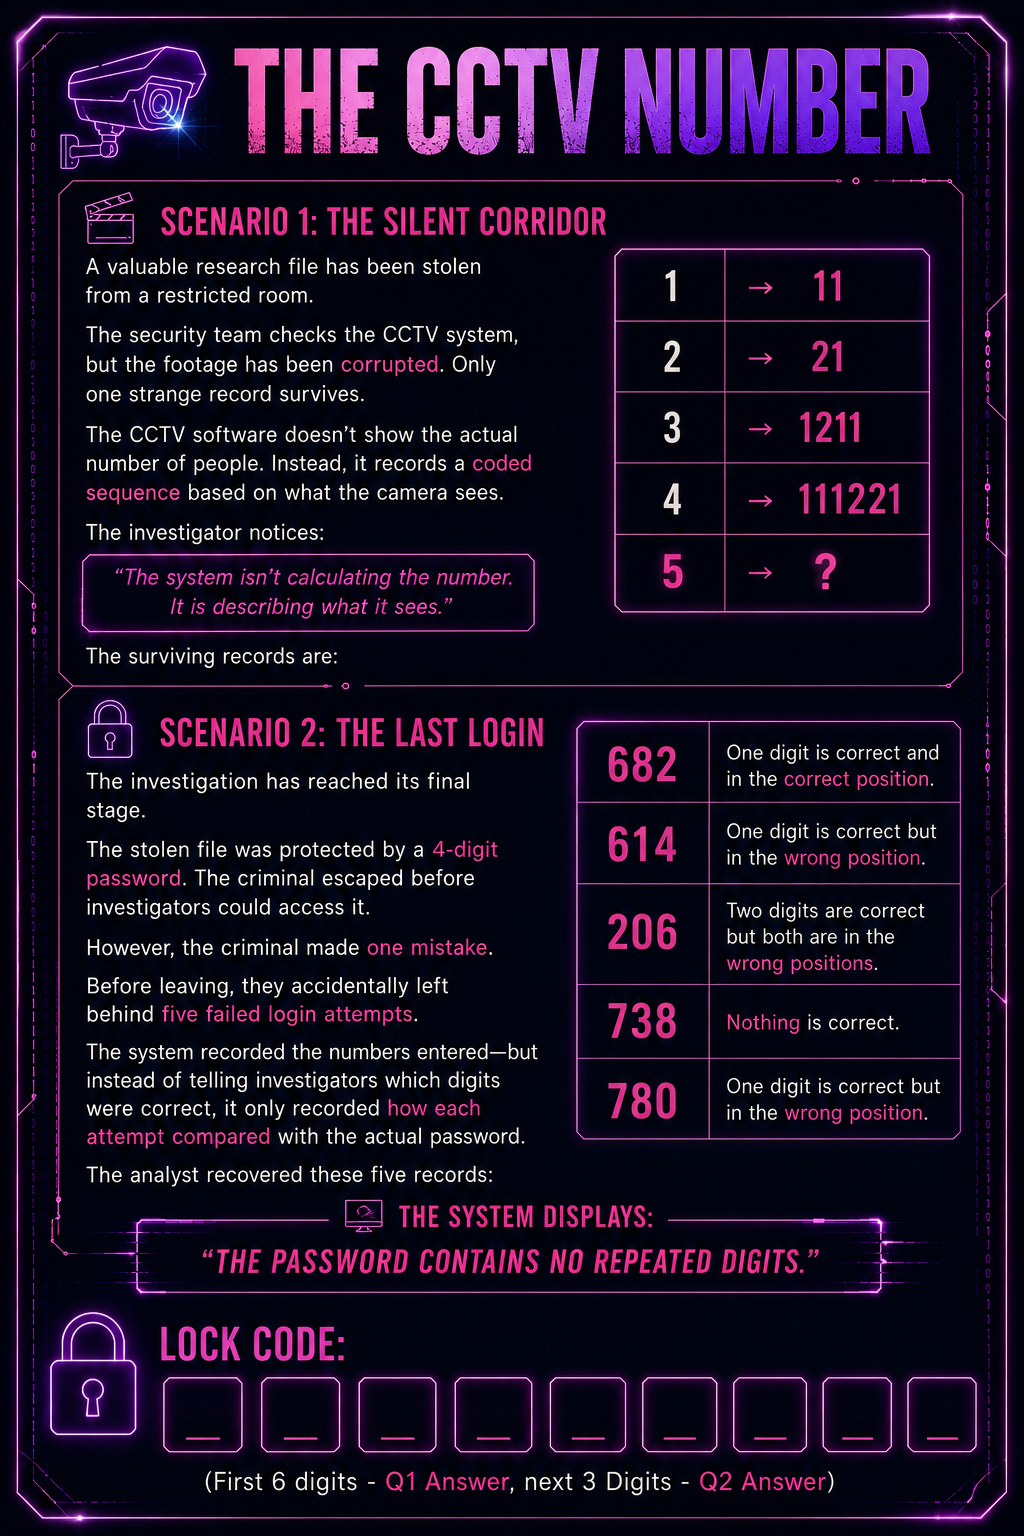
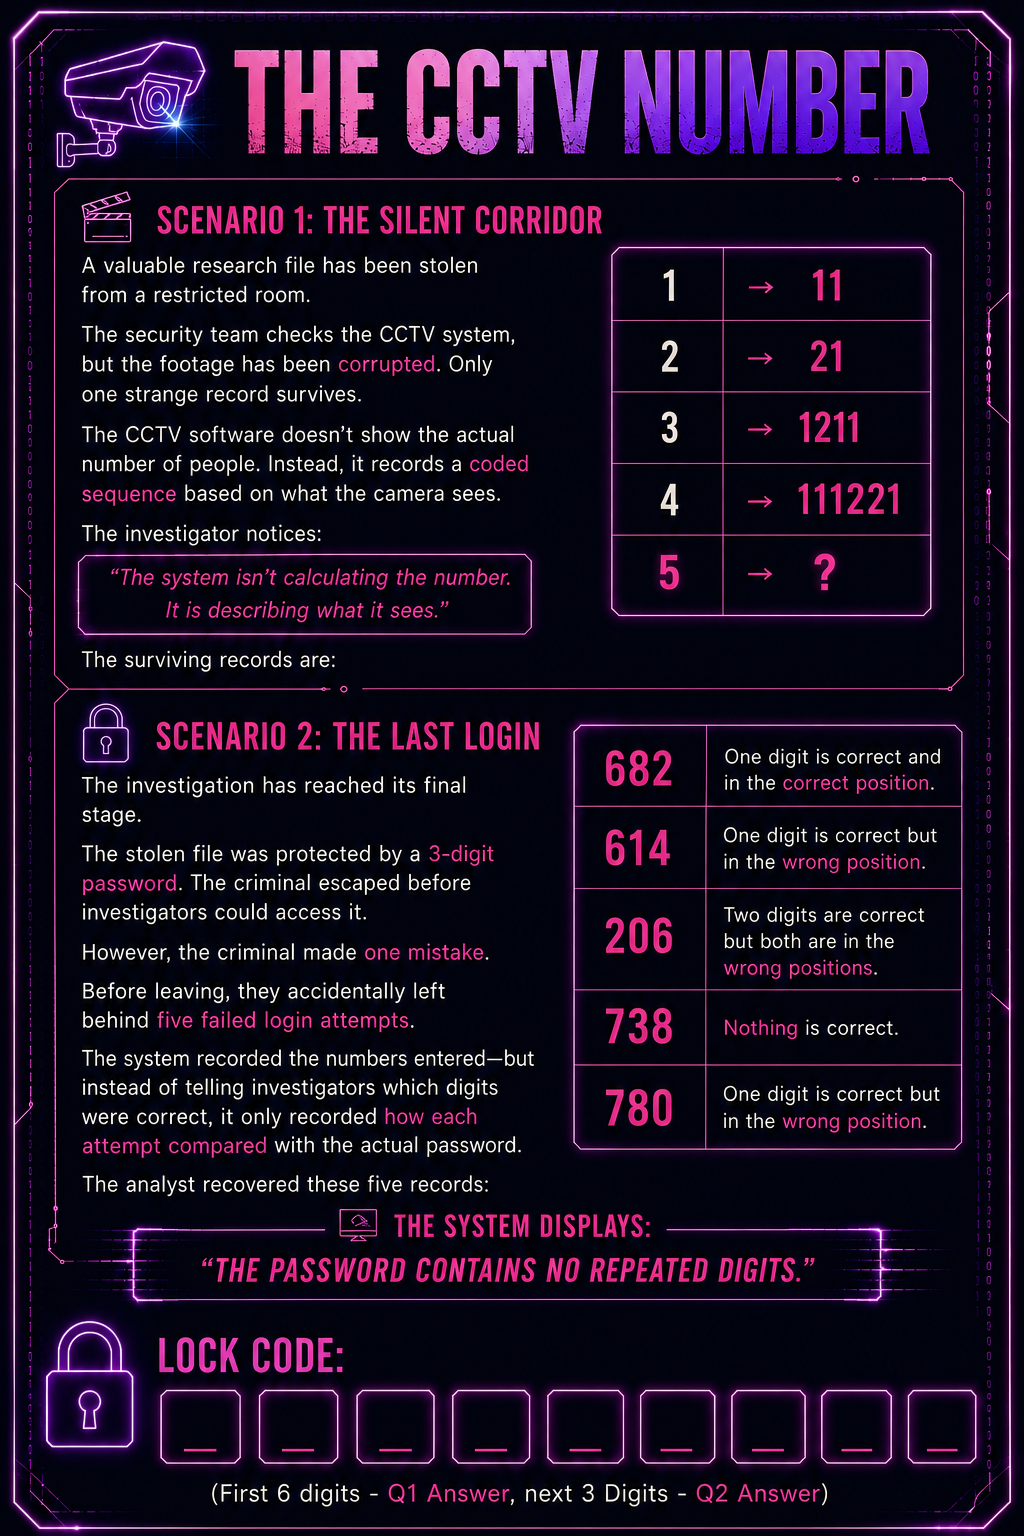
Add seconds-precision leaderboard display and image zoom lightbox
- Leaderboard's "REACHED AT" column now shows seconds, not just
  hour:minute. The tiebreak sort already compared full millisecond
  timestamps under the hood, but over a long event two teams landing
  in the same displayed minute could look like an unresolved tie —
  this makes the ranking visibly trustworthy, not just correct.
- Lock question images are now tappable to open an in-app zoomed
  lightbox, independent of the browser's native pinch/ctrl-scroll
  zoom (which can be awkward once the page is in Fullscreen API
  mode via FullscreenToggle) — works identically either way.
- Update Lock 4's question image.

Changed region(s): [[0.0, 0.0, 1.0, 1.0], [0.5938, 0.1562, 0.9062, 0.4062]]

diff --git a/src/components/LockImage.jsx b/src/components/LockImage.jsx
@@ -1,4 +1,4 @@
-import { useState } from 'react';
+import { useEffect, useState } from 'react';
 
 // ===== LOCK IMAGE CONFIGURATION =====
 // Drop an image at public/assets/locks/lock{N}.png to show it at the top
@@ -7,18 +7,63 @@ import { useState } from 'react';
 // the admin dashboard, live, no rebuild needed), this is a static file —
 // adding, replacing, or removing one needs a rebuild + redeploy. If no
 // file exists at that path, nothing is shown; no broken-image icon.
+//
+// Tapping the image opens an in-app zoomed lightbox. This is deliberately
+// a custom overlay rather than relying on the browser's native pinch/ctrl-
+// scroll zoom, because that native zoom can be awkward or unavailable once
+// the page is in Fullscreen API mode (see FullscreenToggle) — this works
+// identically either way.
 export default function LockImage({ lockIndex }) {
   const [failed, setFailed] = useState(false);
+  const [zoomed, setZoomed] = useState(false);
+
+  useEffect(() => {
+    if (!zoomed) return undefined;
+    function handleKeyDown(e) {
+      if (e.key === 'Escape') setZoomed(false);
+    }
+    document.addEventListener('keydown', handleKeyDown);
+    return () => document.removeEventListener('keydown', handleKeyDown);
+  }, [zoomed]);
+
   if (failed) return null;
 
   const src = `${import.meta.env.BASE_URL}assets/locks/lock${lockIndex}.png`;
 
   return (
-    <img
-      src={src}
-      alt={`Lock ${lockIndex}`}
-      className="lock-modal__image"
-      onError={() => setFailed(true)}
-    />
+    <>
+      <button
+        type="button"
+        className="lock-modal__image-trigger"
+        onClick={() => setZoomed(true)}
+      >
+        <img
+          src={src}
+          alt={`Lock ${lockIndex}`}
+          className="lock-modal__image"
+          onError={() => setFailed(true)}
+        />
+        <span className="lock-modal__image-hint">🔍 TAP TO ZOOM</span>
+      </button>
+
+      {zoomed && (
+        <div
+          className="image-lightbox"
+          role="dialog"
+          aria-modal="true"
+          onClick={() => setZoomed(false)}
+        >
+          <button
+            type="button"
+            className="image-lightbox__close"
+            onClick={() => setZoomed(false)}
+            aria-label="Close zoomed image"
+          >
+            ×
+          </button>
+          <img src={src} alt={`Lock ${lockIndex} zoomed in`} className="image-lightbox__image" />
+        </div>
+      )}
+    </>
   );
 }

diff --git a/src/index.css b/src/index.css
@@ -1133,13 +1133,73 @@ input {
   text-align: left;
 }
 
+.lock-modal__image-trigger {
+  display: block;
+  width: 100%;
+  padding: 0;
+  border: none;
+  background: none;
+  cursor: zoom-in;
+  margin-bottom: 16px;
+}
+
 .lock-modal__image {
   display: block;
   max-width: 100%;
   height: auto;
-  margin-bottom: 16px;
   border-radius: 8px;
   border: 1px solid rgba(139, 92, 246, 0.25);
+}
+
+.lock-modal__image-hint {
+  display: block;
+  margin-top: 6px;
+  font-size: 0.7rem;
+  letter-spacing: 0.08em;
+  color: var(--muted);
+}
+
+.image-lightbox {
+  position: fixed;
+  inset: 0;
+  z-index: 1001;
+  background: rgba(3, 3, 15, 0.92);
+  display: flex;
+  align-items: center;
+  justify-content: center;
+  padding: 24px;
+  cursor: zoom-out;
+  animation: fadeIn 0.15s ease;
+}
+
+.image-lightbox__image {
+  max-width: 95vw;
+  max-height: 90vh;
+  object-fit: contain;
+  border-radius: 8px;
+  box-shadow: 0 0 60px rgba(139, 92, 246, 0.35);
+  cursor: default;
+}
+
+.image-lightbox__close {
+  position: fixed;
+  top: 20px;
+  right: 20px;
+  z-index: 1002;
+  width: 40px;
+  height: 40px;
+  border-radius: 50%;
+  background: rgba(11, 11, 42, 0.8);
+  border: 1px solid rgba(139, 92, 246, 0.4);
+  color: var(--white);
+  font-size: 1.4rem;
+  line-height: 1;
+  cursor: pointer;
+}
+
+.image-lightbox__close:hover {
+  border-color: var(--purple-neon);
+  box-shadow: 0 0 16px rgba(139, 92, 246, 0.5);
 }
 
 .lock-modal__answer-form {

diff --git a/src/utils/format.js b/src/utils/format.js
@@ -15,3 +15,22 @@ export function formatDateTime(timestamp) {
     minute: '2-digit',
   });
 }
+
+// Same as formatDateTime, but down to the second — used specifically for
+// the leaderboard's "reached at" column. The tiebreak sort itself already
+// compares full millisecond-precision timestamps regardless of what's
+// displayed, but showing only hour:minute there could make two genuinely
+// different finish times look identical to anyone reading the board.
+// Seconds make the ranking visibly trustworthy, not just correct under
+// the hood.
+export function formatDateTimeWithSeconds(timestamp) {
+  if (!timestamp) return '—';
+  const date = typeof timestamp.toDate === 'function' ? timestamp.toDate() : new Date(timestamp);
+  return date.toLocaleString(undefined, {
+    day: '2-digit',
+    month: 'short',
+    hour: '2-digit',
+    minute: '2-digit',
+    second: '2-digit',
+  });
+}

diff --git a/src/components/AdminLeaderboard.jsx b/src/components/AdminLeaderboard.jsx
@@ -1,7 +1,7 @@
 import { EVENT_CONFIG } from '../config/eventConfig';
 import { solvedCount } from '../utils/teamProgress';
 import { rankTeams, lastSolvedAt } from '../utils/leaderboard';
-import { formatDateTime } from '../utils/format';
+import { formatDateTimeWithSeconds } from '../utils/format';
 import { downloadCsv } from '../utils/csv';
 
 const MEDALS = ['🥇', '🥈', '🥉'];
@@ -101,7 +101,7 @@ export default function AdminLeaderboard({ teams, onViewResults }) {
                   <td className="mono">
                     {solved} / {EVENT_CONFIG.totalLocks}
                   </td>
-                  <td>{formatDateTime(reachedAt)}</td>
+                  <td className="mono">{formatDateTimeWithSeconds(reachedAt)}</td>
                   <td>
                     <span
                       className={`status-pill ${

diff --git a/README.md b/README.md
@@ -101,6 +101,8 @@ Clicking **FINISH GAME** (with confirmation, since it affects every team at once
 
 Ranking is: more Locks solved ranks higher; disqualified teams always rank last regardless of progress. When two or more teams are tied on Locks solved, whichever team reached that count **first** (the earliest timestamp among their solved Locks) ranks above the others — the "fastest response wins a tie" rule. That timestamp is recorded server-side the moment a Lock is correctly solved (`lockXSolvedAt`), and the Firestore rules only allow it to be set once, to the server's own request time — never a value a participant supplies — so a team can't fake having solved something earlier than they actually did.
 
+The tiebreak itself always compares full millisecond-precision timestamps — over a long event, two teams landing in the exact same minute is entirely possible, so the on-screen **REACHED AT** column shows down to the second, not just hour:minute. This is purely a display fix (the ranking was never actually only minute-precision under the hood) — it just makes a close ranking visibly trustworthy instead of looking like an arbitrary coin flip. The CSV export already had full timestamp precision (ISO format with milliseconds) from the start.
+
 **DOWNLOAD CSV** exports the full ranked results (rank, Team ID, team name, all 3 member names, Locks solved, when they reached that count, status) as a spreadsheet — useful for a permanent record independent of Firebase.
 
 ### When the timer runs out (naturally or via FINISH GAME)
@@ -168,6 +170,8 @@ public/assets/locks/lock{N}.png
 ```
 
 For example, Lock 3's image goes at `public/assets/locks/lock3.png`. It's shown at the top of that Lock's popup, above the answer field. If no file exists at that path, nothing is shown — no broken-image icon. Like the hints/password above, this needs a rebuild + redeploy to update on the live site (a local `npm run dev` picks up a new/changed file immediately).
+
+Tapping the image opens it in a zoomed-in overlay (`🔍 TAP TO ZOOM`) — useful for dense charts/screenshots. This is a custom in-app lightbox, not the browser's native pinch/ctrl-scroll zoom, specifically so it works identically whether or not the participant is using the Fullscreen toggle.
 
 ---
 
